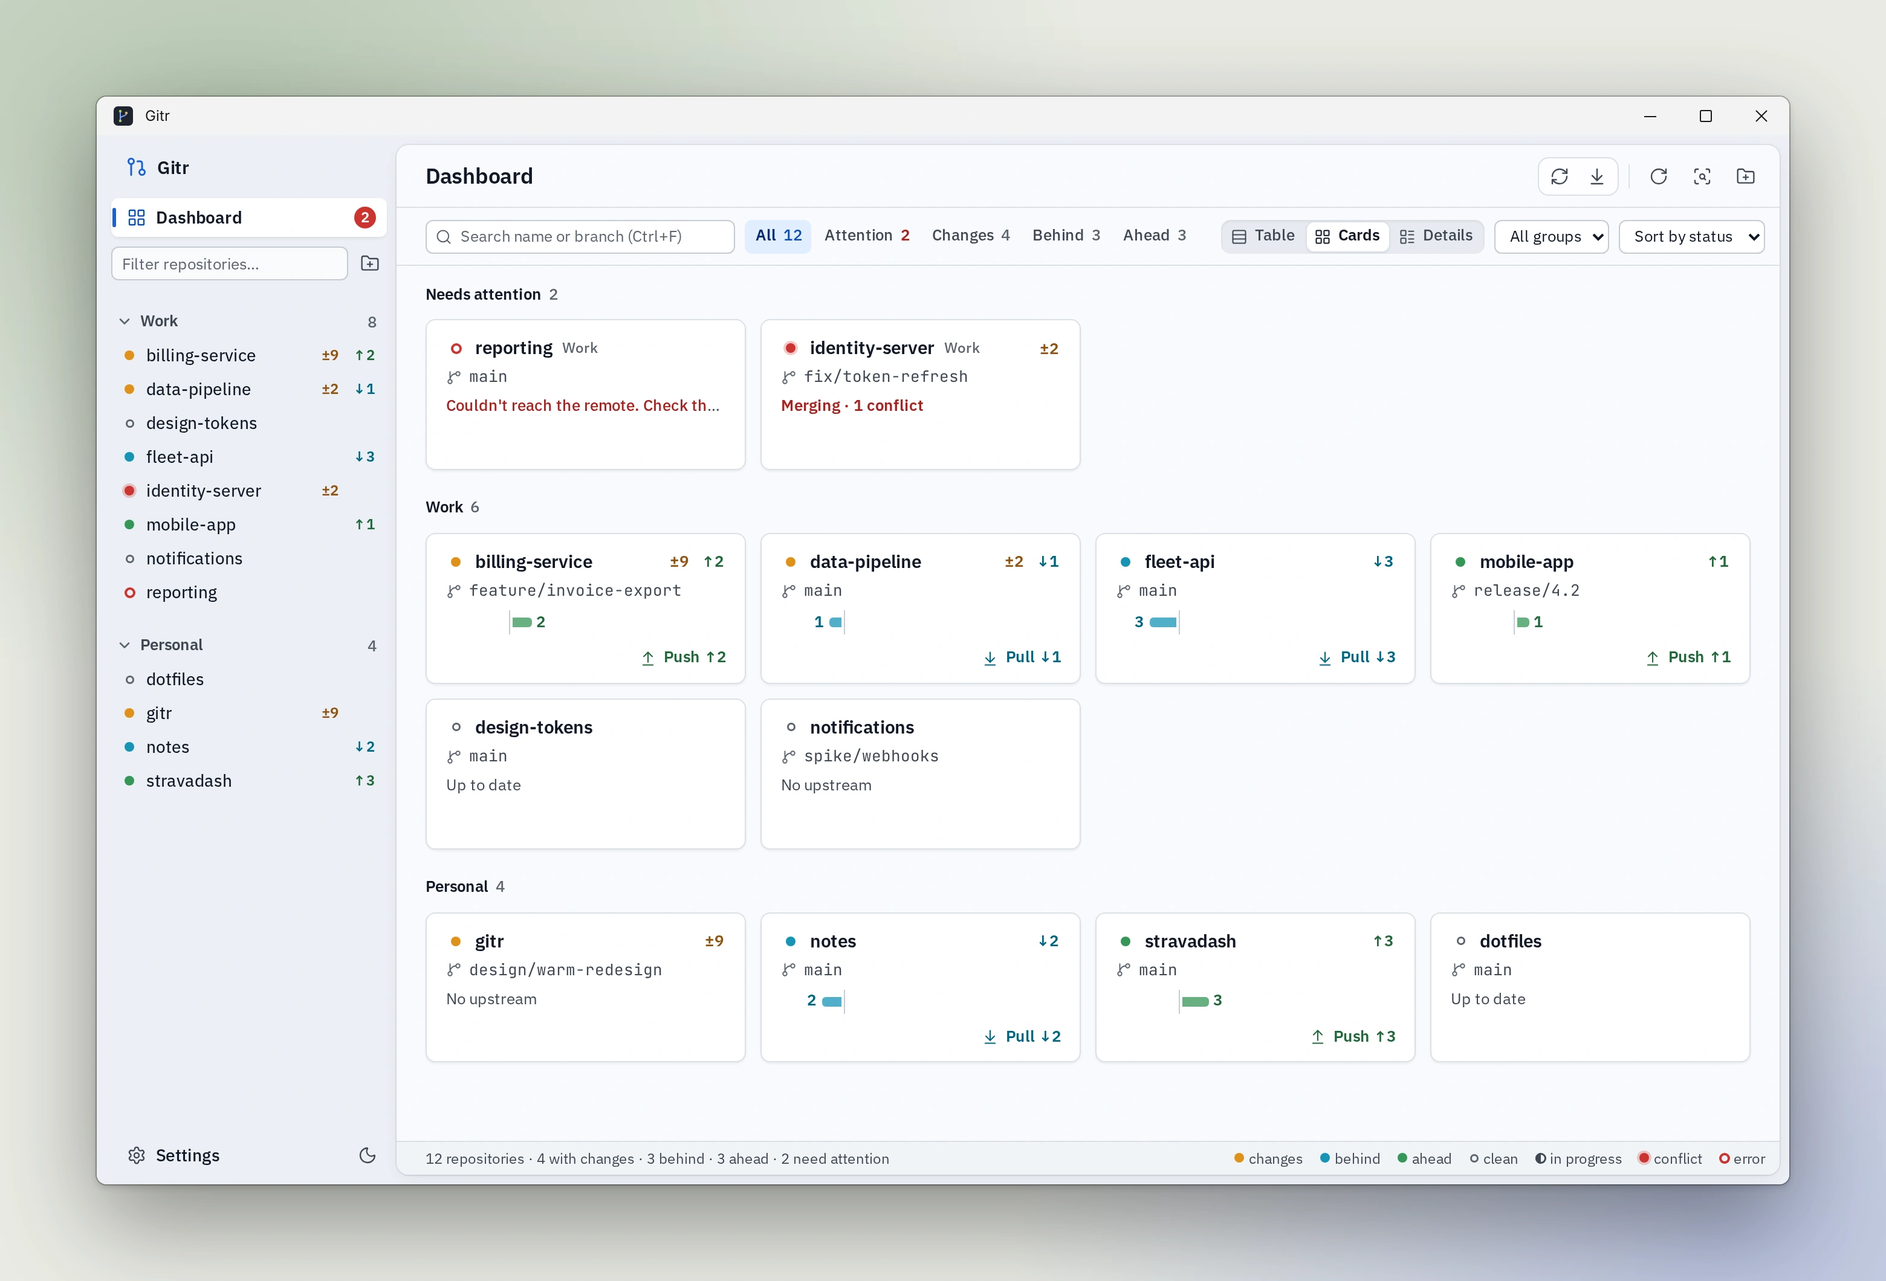
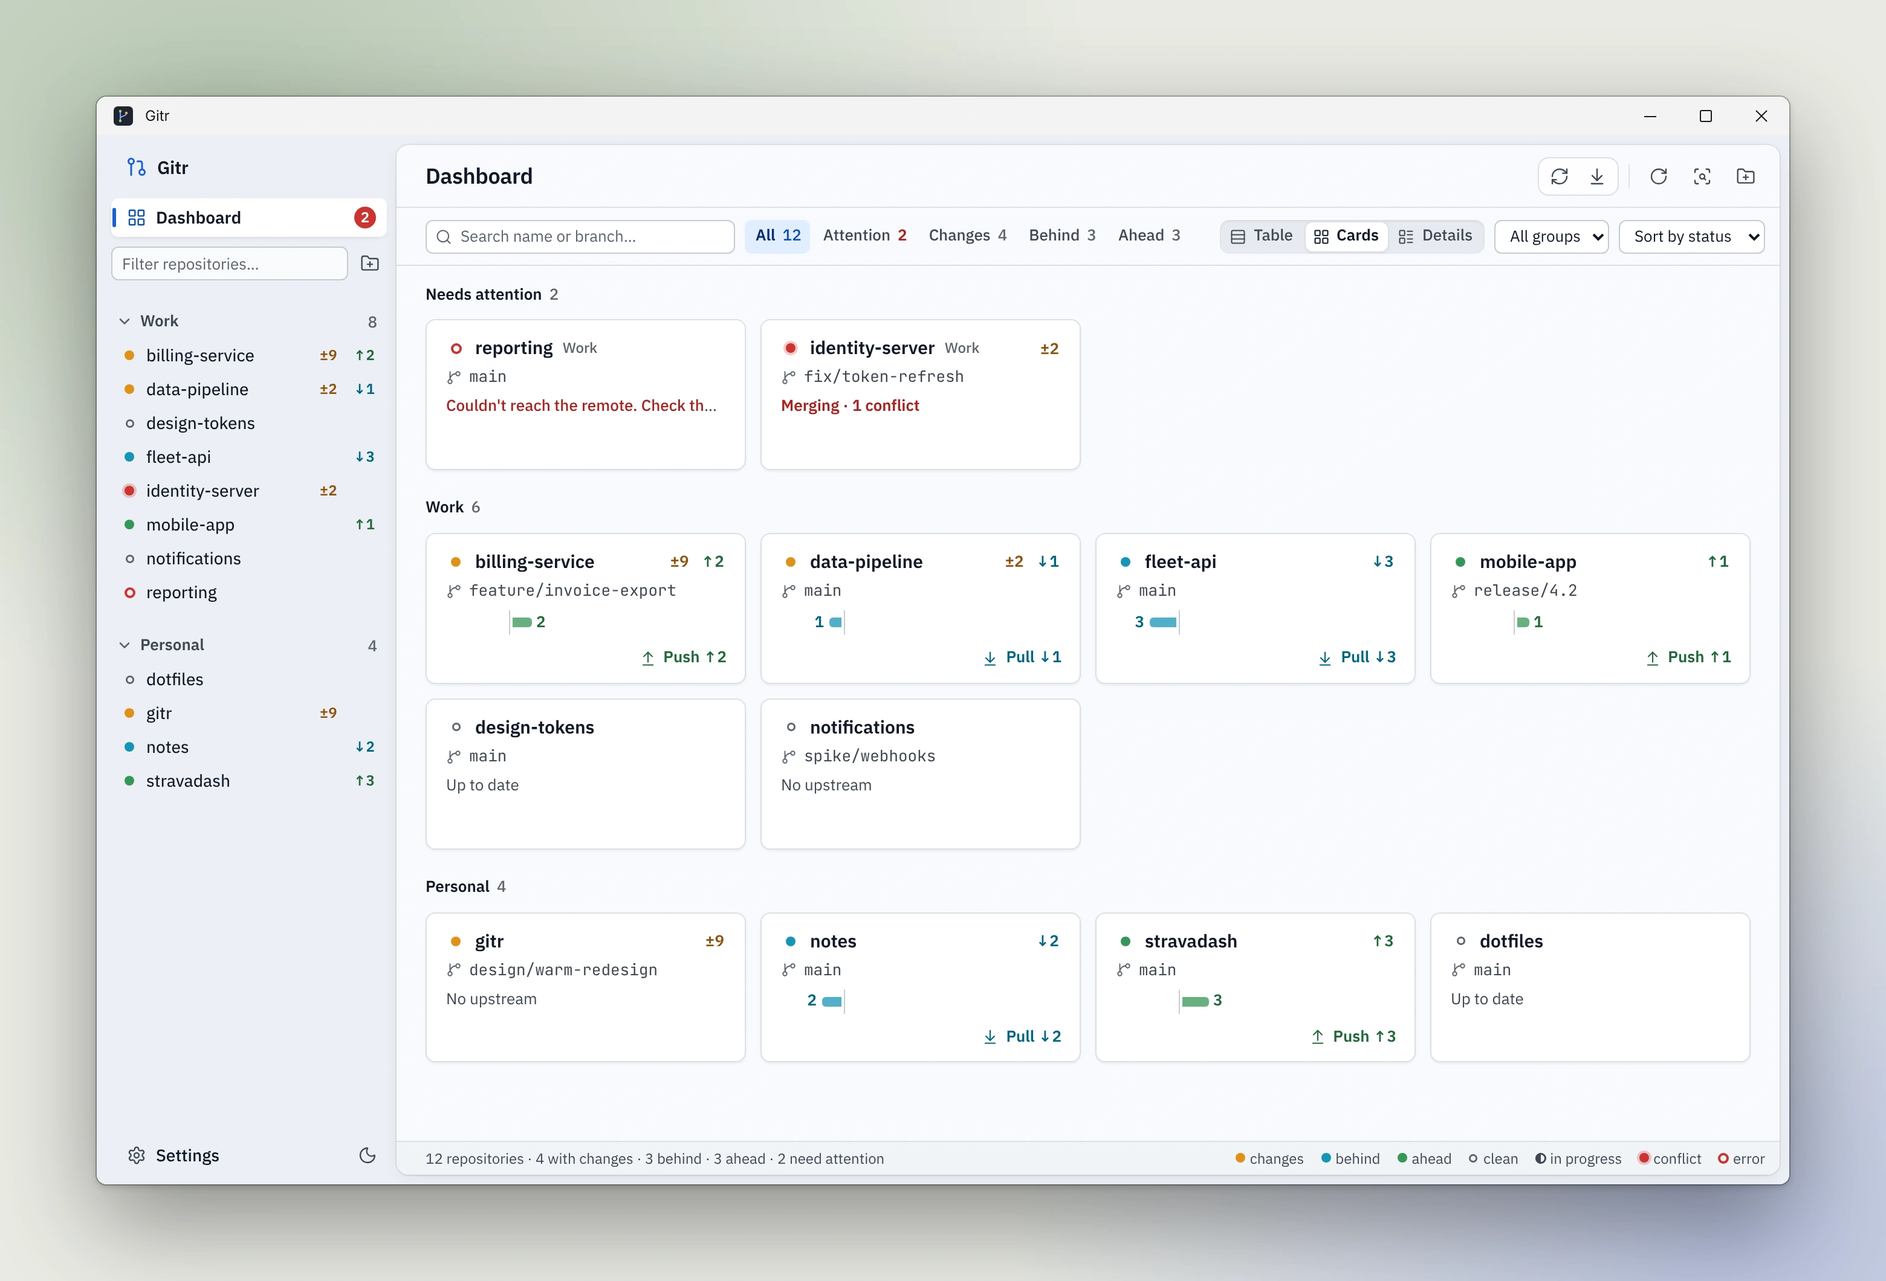
Tidy busy indicator and fix audit findings
The busy state is one quiet chip: a small spinner, the operation in
sentence case ("Fetching…") and a 24 px Stop key, instead of pulsing
lower-case text and a separate labelled Stop button. Indicators stay at
least 400 ms so quick operations don't flash; controls still re-enable
the moment the operation ends. The Fetch icon no longer spins alongside.

From a pass against the Vercel Web Interface Guidelines, run on the real
app via tauri-driver:
- counts, badges and the nav count regained tabular digits (the font
  shorthand had reset them)
- dashboard card names have a 24 px hit target
- the dashboard search placeholder ends in an ellipsis; Ctrl+F moves to
  the tooltip and aria-keyshortcuts

Adds a "busy" screenshot scene; refreshes the README shots.

Claude-Session: https://claude.ai/code/session_017G4PfaaMdnF2FnnyUXN9sA

diff --git a/ui/src/busy.test.tsx b/ui/src/busy.test.tsx
@@ -90,7 +90,7 @@ const { api } = await import('./api')
 const { Dashboard } = await import('./components/Dashboard')
 const { Sidebar } = await import('./components/Sidebar')
 const { RepoView } = await import('./components/RepoView')
-const { BUSY_DISPLAY_DELAY, notifyError } = await import('./hooks')
+const { BUSY_DISPLAY_DELAY, BUSY_MIN_VISIBLE, notifyError } = await import('./hooks')
 const { ask } = await import('@tauri-apps/plugin-dialog')
 
 const wrap = (ui: React.ReactNode) =>
@@ -109,15 +109,18 @@ describe('busy repositories', () => {
   })
   afterEach(cleanup)
 
-  it('dashboard row shows the operation as a pill after the display delay, and clears when idle', async () => {
+  it('dashboard row shows the operation with a spinner after the display delay, and clears when idle', async () => {
     wrap(<Dashboard />)
     const row = (await screen.findByRole('button', { name: 'repo' })).closest('.row') as HTMLElement
     setBusy('committing')
-    expect(within(row).queryByText('committing…')).toBeNull()
+    expect(within(row).queryByRole('status')).toBeNull()
     await sleep(BUSY_DISPLAY_DELAY + 50)
-    expect(within(row).getByText('committing…')).toHaveClass('pill', 'running')
+    expect(within(row).getByRole('status')).toHaveTextContent('Committing…')
+    // A quick operation stays on screen for the minimum time instead of flashing off.
     setBusy(null)
-    expect(within(row).queryByText('committing…')).toBeNull()
+    expect(within(row).getByRole('status')).toBeInTheDocument()
+    await sleep(BUSY_MIN_VISIBLE)
+    expect(within(row).queryByRole('status')).toBeNull()
   })
 
   it('sidebar repo shows a busy indicator with the operation', async () => {
@@ -126,7 +129,7 @@ describe('busy repositories', () => {
     expect(within(item).queryByRole('status')).toBeNull()
     setBusy('pulling')
     await sleep(BUSY_DISPLAY_DELAY + 50)
-    expect(within(item).getByRole('status')).toHaveAttribute('title', 'pulling…')
+    expect(within(item).getByRole('status')).toHaveAttribute('title', 'Pulling…')
   })
 
   it('repo view disables every write while busy and shows the operation', async () => {
@@ -148,7 +151,7 @@ describe('busy repositories', () => {
 
     setBusy('committing')
     await sleep(BUSY_DISPLAY_DELAY + 50)
-    expect(screen.getByRole('status')).toHaveTextContent('committing…')
+    expect(screen.getByRole('status')).toHaveTextContent('Committing')
     expect(button('Committing…')).toBeDisabled()
     writes().forEach((b) => expect(b).toBeDisabled())
 
@@ -215,6 +218,7 @@ describe('busy repositories', () => {
     expect(api.cancelOperation).toHaveBeenCalledWith(PATH)
     expect(row).not.toHaveClass('cursor')
     setBusy(null)
+    await sleep(BUSY_MIN_VISIBLE)
     expect(within(row).queryByRole('button', { name: /Stop/ })).toBeNull()
   })
 

diff --git a/ui/src/components/Busy.tsx b/ui/src/components/Busy.tsx
@@ -1,13 +1,13 @@
 import type { ReactNode } from 'react'
 import { Square } from 'lucide-react'
-import { useBusy } from '../hooks'
+import { BUSY_MIN_VISIBLE, useBusy } from '../hooks'
 import { stopOperation } from '../lib/stop'
 
-/** Stops the repo's operation; an icon, or a labelled button with `label`. */
-export function StopButton({ path, op, label }: { path: string; op: string; label?: boolean }) {
+/** Stops the repo's operation. */
+export function StopButton({ path, op }: { path: string; op: string }) {
   return (
     <button
-      className={label ? 'small stop' : 'icon stop'}
+      className="icon stop"
       title={`Stop ${op}`}
       aria-label={`Stop ${op}`}
       onClick={(e) => {
@@ -17,26 +17,40 @@ export function StopButton({ path, op, label }: { path: string; op: string; labe
       }}
     >
       <Square className="ico" aria-hidden />
-      {label && 'Stop'}
     </button>
   )
 }
 
-/** Shows “<operation>…” with a Stop button while the repo is busy, otherwise `children`. */
-export function BusyOr({ path, children }: { path: string; children?: ReactNode }) {
-  const op = useBusy(path)
-  return op ? (
-    <>
-      <span className="pill running busy">{op}…</span>
+/** "fetching" → "Fetching…": operation names are stored lower case; a running one ends in an ellipsis. */
+export const opLabel = (op: string) => `${op.charAt(0).toUpperCase()}${op.slice(1)}…`
+
+/** The repo's running operation as a chip, or nothing while it is idle. */
+export function BusyChip({ path }: { path: string }) {
+  const op = useBusy(path, BUSY_MIN_VISIBLE)
+  return op ? <Chip path={path} op={op} /> : null
+}
+
+/** A running operation: a small spinner, its name in sentence case, and a Stop key, as one quiet chip. */
+function Chip({ path, op }: { path: string; op: string }) {
+  return (
+    <span className="busy-chip">
+      <span className="busy-label" role="status">
+        <span className="spinner" aria-hidden />
+        {opLabel(op)}
+      </span>
       <StopButton path={path} op={op} />
-    </>
-  ) : (
-    <>{children}</>
+    </span>
   )
+}
+
+/** Shows the running operation with a Stop button while the repo is busy, otherwise `children`. */
+export function BusyOr({ path, children }: { path: string; children?: ReactNode }) {
+  const op = useBusy(path, BUSY_MIN_VISIBLE)
+  return op ? <Chip path={path} op={op} /> : <>{children}</>
 }
 
 /** A small pulsing dot while the repo is busy (sidebar). */
 export function BusyDot({ path }: { path: string }) {
-  const op = useBusy(path)
-  return op ? <span className="busy-dot" role="status" title={`${op}…`} aria-label={`${op}…`} /> : null
+  const op = useBusy(path, BUSY_MIN_VISIBLE)
+  return op ? <span className="busy-dot" role="status" title={opLabel(op)} aria-label={opLabel(op)} /> : null
 }

diff --git a/ui/src/index.css b/ui/src/index.css
@@ -648,6 +648,8 @@ ul:focus-visible,
   margin-left: var(--s3);
   color: var(--ink-3);
   font: 500 var(--fs-sm) / 1 var(--font-ui);
+  /* The font shorthand resets this to normal; counts keep even-width digits. */
+  font-variant-numeric: tabular-nums;
 }
 
 /* Empty, loading. */
@@ -768,6 +770,7 @@ ul:focus-visible,
   padding: 0 1px;
   background: none;
   font: 600 var(--fs-sm) / 1 var(--font-ui);
+  font-variant-numeric: tabular-nums;
   white-space: nowrap;
 }
 .badge.dirty {
@@ -947,6 +950,7 @@ body.resizing-y * {
   display: inline-grid;
   place-items: center;
   font: 600 var(--fs-xs) / 1 var(--font-ui);
+  font-variant-numeric: tabular-nums;
 }
 .nav-count.alert {
   background: var(--red);
@@ -1590,9 +1594,6 @@ body.resizing-y * {
 .pill.operation.conflicted {
   color: var(--red-ink);
 }
-.pill.busy {
-  animation: pulse 1.2s ease-in-out infinite;
-}
 
 /* Row tools: Pull, VS Code, more. Shown for the row under the pointer or the cursor. */
 .row-tools {
@@ -1701,8 +1702,11 @@ body.resizing-y * {
   gap: var(--s4);
   min-height: 22px;
 }
-.card-name {
+button.link.card-name {
   min-width: 0;
+  /* A 24px hit target around the 21px line, without moving the card's text. */
+  padding-block: 2px;
+  margin-block: -2px;
   font-size: var(--fs-md);
   white-space: nowrap;
 }
@@ -2113,8 +2117,13 @@ button.icon .count {
   font-size: var(--fs-sm);
   font-variant-numeric: tabular-nums;
 }
-.repo-head .pill.busy {
+.repo-head .busy-chip {
+  height: var(--ctl-sm);
   margin-right: var(--s2);
+  padding: 0 var(--s1) 0 var(--s4);
+  border: 1px solid var(--line);
+  border-radius: var(--r);
+  background: var(--panel);
 }
 
 /* Tabs: text with an accent underline on the open one. */
@@ -3577,7 +3586,36 @@ button.set-add {
   margin: var(--s4) 0 0 calc(var(--icon) + var(--s4));
 }
 
-/* Busy: a stop button beside a running operation, and a pulse in the sidebar. */
+/* Busy: a spinner, the operation in sentence case and a Stop key; a pulse in the sidebar. */
+.busy-chip {
+  display: inline-flex;
+  align-items: center;
+  gap: var(--s2);
+  white-space: nowrap;
+  font-size: var(--fs-sm);
+  color: var(--ink-2);
+}
+.busy-label {
+  display: inline-flex;
+  align-items: center;
+  gap: var(--s3);
+}
+.spinner {
+  flex: none;
+  box-sizing: border-box;
+  width: 12px;
+  height: 12px;
+  border: 1.5px solid color-mix(in oklab, var(--accent) 25%, transparent);
+  border-top-color: var(--accent);
+  border-radius: 50%;
+  animation: spin 0.8s linear infinite;
+}
+/* The stop key is a 10px square; its hit area is 24px, the smallest a pointer target should be. */
+.busy-chip button.icon.stop {
+  width: 24px;
+  height: 24px;
+  margin-left: 0;
+}
 button.stop .ico {
   width: 10px;
   height: 10px;

diff --git a/ui/src/hooks.ts b/ui/src/hooks.ts
@@ -1,4 +1,4 @@
-import { useEffect, useState } from 'react'
+import { useEffect, useRef, useState } from 'react'
 import { listen } from '@tauri-apps/api/event'
 import { useIsMutating, useMutation, useQuery, useQueryClient } from '@tanstack/react-query'
 import { api, asCmdError, errorDetail, errorMessage } from './api'
@@ -100,25 +100,39 @@ export function useRescan() {
 
 /** How long a repo must be busy before the UI shows it (avoids flicker on fast writes). */
 export const BUSY_DISPLAY_DELAY = 200
+/** Once shown, a busy indicator stays at least this long, so it never flashes on and off. */
+export const BUSY_MIN_VISIBLE = 400
 
 /**
  * The operation running on `path` (e.g. "committing") once it has lasted BUSY_DISPLAY_DELAY,
  * else null. The backend queues writes regardless, so a click during the delay is safe.
+ * Indicators pass `minVisible` (BUSY_MIN_VISIBLE) so a quick operation doesn't flash off;
+ * controls leave it at 0, so they re-enable the moment the operation ends.
  */
-export function useBusy(path: string): string | null {
+export function useBusy(path: string, minVisible = 0): string | null {
   const op = useApp((s) => s.busy[path] ?? null)
   const [shown, setShown] = useState<string | null>(null)
+  const shownAt = useRef(0)
   useEffect(() => {
     if (!op) {
-      setShown(null)
-      return
+      if (!shown) return
+      const left = minVisible - (Date.now() - shownAt.current)
+      if (left <= 0) {
+        setShown(null)
+        return
+      }
+      const t = setTimeout(() => setShown(null), left)
+      return () => clearTimeout(t)
     }
     // Already showing: switch the label right away (e.g. fetching → pulling).
     if (shown) {
       setShown(op)
       return
     }
-    const t = setTimeout(() => setShown(op), BUSY_DISPLAY_DELAY)
+    const t = setTimeout(() => {
+      shownAt.current = Date.now()
+      setShown(op)
+    }, BUSY_DISPLAY_DELAY)
     return () => clearTimeout(t)
     // eslint-disable-next-line react-hooks/exhaustive-deps
   }, [op])

diff --git a/ui/src/components/RepoView.tsx b/ui/src/components/RepoView.tsx
@@ -13,7 +13,7 @@ import type { LinkTarget } from '../types'
 import { Changes } from './Changes'
 import { Branches } from './Branches'
 import { History } from './History'
-import { StopButton } from './Busy'
+import { BusyChip } from './Busy'
 import { HookPanel } from './HookPanel'
 import { DropMenu, type DropMenuItem } from './DropMenu'
 
@@ -174,14 +174,7 @@ export function RepoView({ path }: { path: string }) {
           </span>
         </div>
         <div className="spacer" />
-        {busyOp && (
-          <>
-            <span className="pill running busy" role="status">
-              {busyOp}…
-            </span>
-            <StopButton path={path} op={busyOp} label />
-          </>
-        )}
+        <BusyChip path={path} />
         <div className="head-actions">
           <div className="icon-group" role="group" aria-label="Sync">
             <button
@@ -191,7 +184,7 @@ export function RepoView({ path }: { path: string }) {
               aria-label={busyOp === 'fetching' ? 'Fetching…' : 'Fetch'}
               title="Fetch from the remote"
             >
-              <RefreshCw className={`ico ${busyOp === 'fetching' ? 'spin' : ''}`} aria-hidden />
+              <RefreshCw className="ico" aria-hidden />
             </button>
             <button
               className={`icon ${s?.behind ? 'counted next next-behind' : ''}`}

diff --git a/ui/src/numerals.test.ts b/ui/src/numerals.test.ts
@@ -1,0 +1,18 @@
+import { describe, expect, it } from 'vite-plus/test'
+import css from './index.css?raw'
+
+/** Every CSS rule (selector list and body), comments stripped. */
+const rules = [...css.replace(/\/\*[\s\S]*?\*\//g, '').matchAll(/([^{}]+)\{([^{}]*)\}/g)].map((m) => ({
+  selector: m[1].trim(),
+  body: m[2],
+}))
+
+describe('numerals', () => {
+  // The `font:` shorthand resets font-variant-numeric to normal, undoing the root's tabular-nums.
+  // Counts and badges that set `font:` must set tabular-nums again, or their digits change width.
+  it.each(['.count', '.badge', '.nav-count'])('%s keeps tabular digits after its font shorthand', (sel) => {
+    const own = rules.filter((r) => r.selector.split(',').some((s) => s.trim() === sel) && /(^|;|\s)font:/.test(r.body))
+    expect(own.length).toBeGreaterThan(0)
+    for (const r of own) expect(r.body).toMatch(/font-variant-numeric:\s*tabular-nums/)
+  })
+})

diff --git a/ui/src/components/Dashboard.tsx b/ui/src/components/Dashboard.tsx
@@ -312,8 +312,10 @@ export function Dashboard() {
               {...plainInput}
               ref={searchRef}
               className="search"
-              placeholder="Search name or branch (Ctrl+F)"
+              placeholder="Search name or branch…"
               aria-label="Search repositories"
+              aria-keyshortcuts="Control+F"
+              title="Search (Ctrl+F)"
               value={text}
               onChange={(e) => setDashboard({ text: e.target.value })}
               onKeyDown={(e) => {

diff --git a/docs/bug-ledger.md b/docs/bug-ledger.md
@@ -6,6 +6,9 @@ Columns: **Date** · **Commit** (short hash; `pending` until committed, then fil
 
 | Date | Commit | Symptom | Root cause | Fix | Regression test |
 |---|---|---|---|---|---|
+| 2026-11-05 | pending | Audit against the Vercel Web Interface Guidelines (live app via tauri-driver): dashboard counts, badges and the sidebar's attention count used proportional digits, so numbers in a column changed width as they changed. | `.count`, `.tab-count`, `.badge` and `.nav-count` set the `font:` shorthand, which resets `font-variant-numeric` to `normal` and undoes the root's `tabular-nums`. | Each sets `font-variant-numeric: tabular-nums` again after its shorthand. | `numerals.test.ts` › keeps tabular digits after its font shorthand |
+| 2026-11-05 | pending | Audit: dashboard card names were 21 px tall click targets, under the 24 px minimum. | `button.link` resets padding to 0 and the card name is one 21 px line; the `.card-name` rule lost to `button.link` on specificity. | `button.link.card-name` adds 2 px of padding with a matching negative margin, so the hit area is 25 px and the text does not move. | none: CSS-only sizing that jsdom does not lay out; checked in the live app (WebDriver audit: no controls under 24 px) |
+| 2026-11-05 | pending | The busy indicator read "fetching…" in lower case, pulsed, and sat beside a separate labelled Stop button; a fast operation could flash it on and off, and the Fetch icon spun at the same time. | The operation name was shown exactly as stored (lower case) in a pulsing accent-coloured pill; `useBusy` had a show delay but no minimum visible time. | One `BusyChip`: spinner, "Fetching…" in sentence case and a 24 px Stop icon. Indicators stay at least 400 ms (`BUSY_MIN_VISIBLE`); controls still re-enable at once. The Fetch icon no longer spins. | `busy.test.tsx` › dashboard row shows the operation with a spinner after the display delay, and clears when idle |
 | 2026-10-26 | b1ac87a | Audit against the Vercel Web Interface Guidelines: info toasts ("Deleted feature", "Lock file removed. Try again.") were never read out by screen readers; only error toasts were. | Only error toasts had a role (`alert`); info toasts were plain divs added to a container that was not a live region, so assistive technology was never told about them. | The `.toasts` container, which is always rendered, is `aria-live="polite"`; error toasts keep `role="alert"`. | `toasts.test.tsx` › announces info toasts through a polite live region that is always there |
 | 2026-10-26 | b1ac87a | Audit: six confirmation dialogs (delete branch, force delete, discard permanently, abort operation / end bisect, remove stale lock, trust folder) offered "Yes" / "No" instead of naming the action. | Those `ask()` calls set no `okLabel` / `cancelLabel`, so the dialog plugin's defaults were used; the other confirmations already named their buttons. | Each sets an action-named OK button (Delete branch, Force delete, Discard, Abort {operation} / End bisect, Remove lock, Trust folder) and Cancel (Keep changes for discard). | `branches.test.tsx` › warns about unpushed commits before deleting…; `recover.test.tsx` › asks before discarding refused files permanently…; `repoView.test.tsx` › bisect: … End bisect asks…; `errors.test.tsx` › Trust this folder asks, then trusts |
 | 2026-10-26 | b1ac87a | Audit: in Changes, every row's Stage / Unstage / Discard buttons were announced with the same name ("Stage, Stage, Stage"), and they were 22 px, under the 24 px minimum target. | The buttons were named only by `title` with a fixed word, not by the file or folder they act on; the CSS sized them at 22 px. | Each has an `aria-label` naming its file or folder ("Stage src/a.ts", "Discard folder src"); the `title` tooltip stays. The buttons are 24 px. | `recover.test.tsx` › names each row action after its file; the 24 px size has none (CSS only, checked in the screenshots) |

diff --git a/CHANGELOG.md b/CHANGELOG.md
@@ -5,6 +5,14 @@ The format follows [Keep a Changelog](https://keepachangelog.com/en/1.1.0/).
 
 ## [Unreleased]
 
+### Changed
+- **A tidier "Fetching" indicator.** While a repository fetches, pulls, pushes or commits, the top of the repository view and the dashboard now show a small spinner and the operation's name ("Fetching") with a Stop button beside it, instead of lower-case pulsing text and a separate **Stop** button. The Fetch button no longer spins as well, and a quick operation no longer flashes the indicator on and off.
+
+### Fixed
+- **Numbers in the dashboard kept shifting.** Counts and badges now use even-width digits, so a column of numbers stays aligned as they change.
+- **Card names are easier to click.** Their click area is now at least 24 pixels tall.
+- **The dashboard search box** reads "Search name or branch…"; its Ctrl+F shortcut is in the tooltip and announced to screen readers.
+
 ## [0.2.0] - 2026-10-26
 
 ### Added
